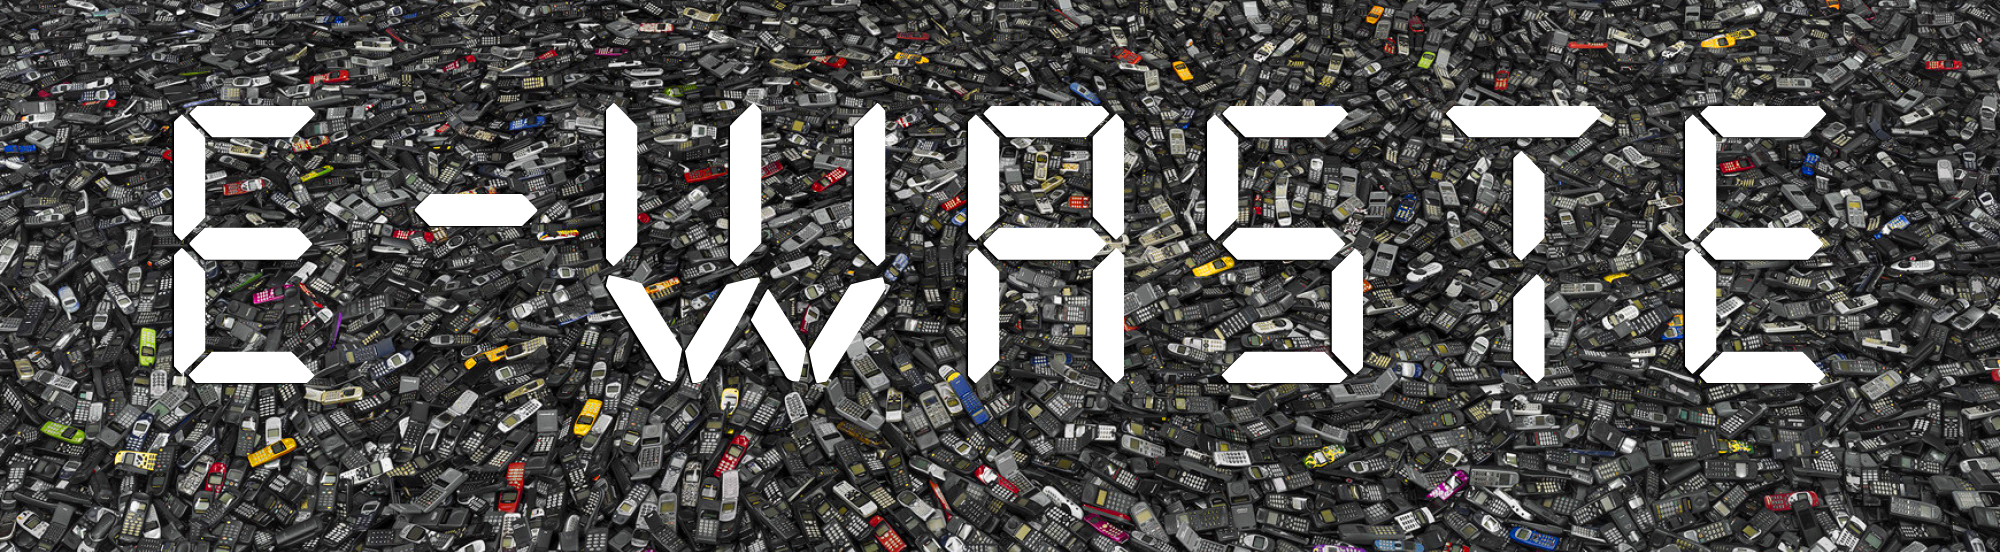
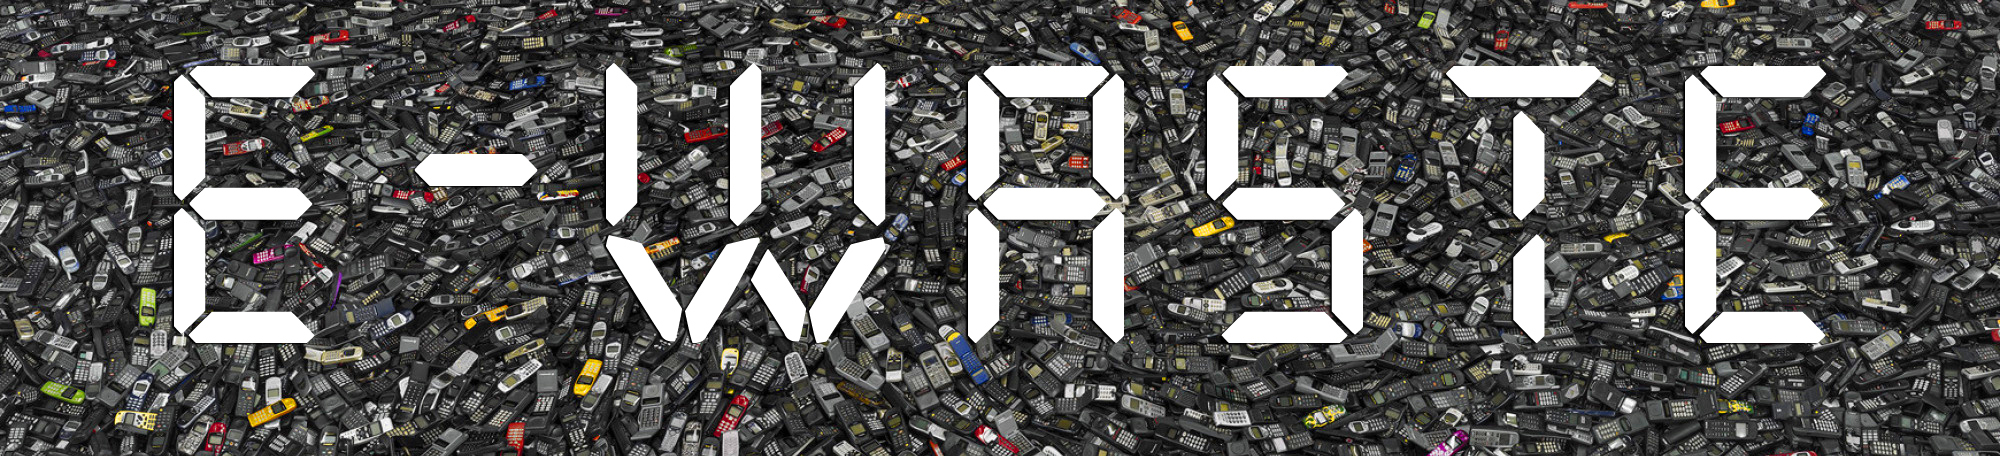
Reduced the image size and minor changes.

diff --git a/egarbage/templates/egarbage/about.html b/egarbage/templates/egarbage/about.html
@@ -8,34 +8,34 @@
 
 <div class="row">
 
-    <p class="text-center">
+    <p class="text-center text-muted">
         Lorem ipsum dolor sit amet, consectetur adipisicing elit. Architecto deleniti ea modi molestiae odit optio repellendus? Ab amet, eaque earum illo in inventore minus nihil nostrum obcaecati qui saepe voluptatum. Lorem ipsum, dolor sit amet consectetur
         adipisicing elit. Quidem eos delectus ducimus magnam obcaecati maiores dolor. Odit autem error ratione consequuntur aut cupiditate? Ratione, quam sit! Atque cumque ab totam.
     </p>
 </div>
 
-<div class="row">&nbsp;</div>
+<div class=" row ">&nbsp;</div>
 
-<h1 class="text-center">The team</h1>
-<p class="text-center text-muted"><br> ipsum dolor sit amet consectetur adipisicing elit. Accusantium voluptate asperiores accusamus provident quibusdam veniam voluptates sed nemo. Recusandae incidunt eaque eveniet veniam magni quo veritatis deleniti, optio impedit cupiditate. Lorem,
+<h1 class="text-center ">The team</h1>
+<p class="text-center text-muted "><br> ipsum dolor sit amet consectetur adipisicing elit. Accusantium voluptate asperiores accusamus provident quibusdam veniam voluptates sed nemo. Recusandae incidunt eaque eveniet veniam magni quo veritatis deleniti, optio impedit cupiditate. Lorem,
     ipsum dolor sit amet consectetur adipisicing elit. Consectetur, voluptate! Alias cum impedit voluptates facere exercitationem nemo quasi dolorem natus a eos eveniet autem, rerum deleniti iure minima laudantium. Rem.</p>
 <div>&nbsp;</div>
-<div class=" card">
-    <div class="row">
+<div class=" card ">
+    <div class="row ">
         <!-- Carousel start -->
         <div class="col-md-5 ">
             <div id="card-img-top ">
                 <img class="card-img-top " src="{% static 'egarbage/images/index.jpeg' %} " alt="Card image cap ">
             </div>
         </div>
-        <div class="col-md-7 px-3">
+        <div class="col-md-7 px-3 ">
             <div class="card-block px-6 ">
                 <div class="card-body ">
                     <h4 class="card-title ">MM</h4>
                     <h6 class="card-subtitle text-muted ">Title</h6>
                 </div>
-                <div class="card-body">
-                    <p class="card-text">
+                <div class="card-body ">
+                    <p class="card-text ">
                         Lorem ipsum dolor sit amet consectetur adipisicing elit. Repellat explicabo velit quam similique. Optio dignissimos deserunt nihil culpa. Tempora accusantium facilis velit natus ipsa quod rem asperiores quo fugiat molestiae? </p>
                     <p class="card-text ">Made for usage, commonly searched for. Fork, like and use it. Just move the carousel div above the col containing the text for left alignment of images</p>
                     <br>

diff --git a/egarbage/templates/egarbage/layout.html b/egarbage/templates/egarbage/layout.html
@@ -21,8 +21,6 @@
 
     {% endblock stylesheets %}
 
-
-
 </head>
 
 <body>
